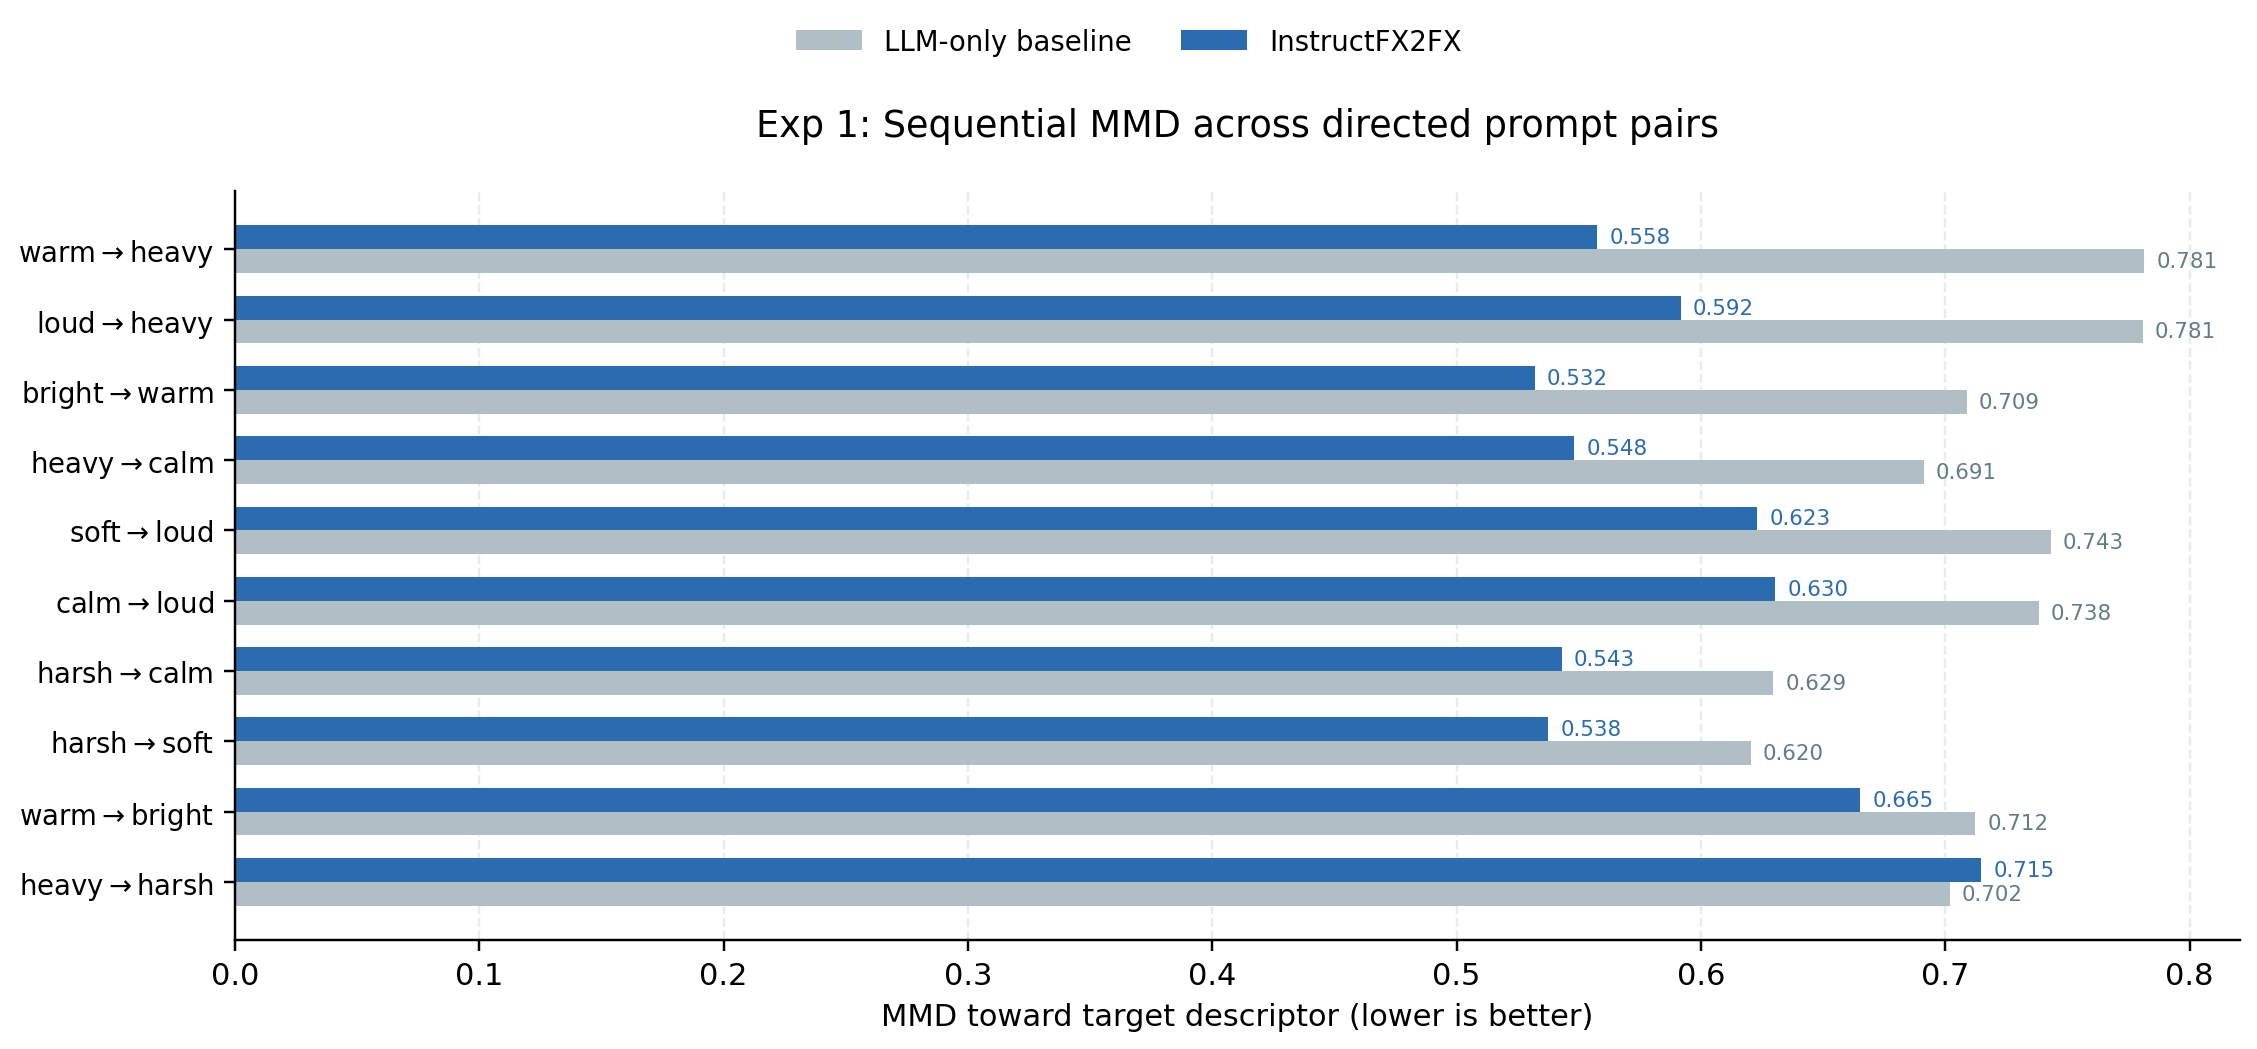
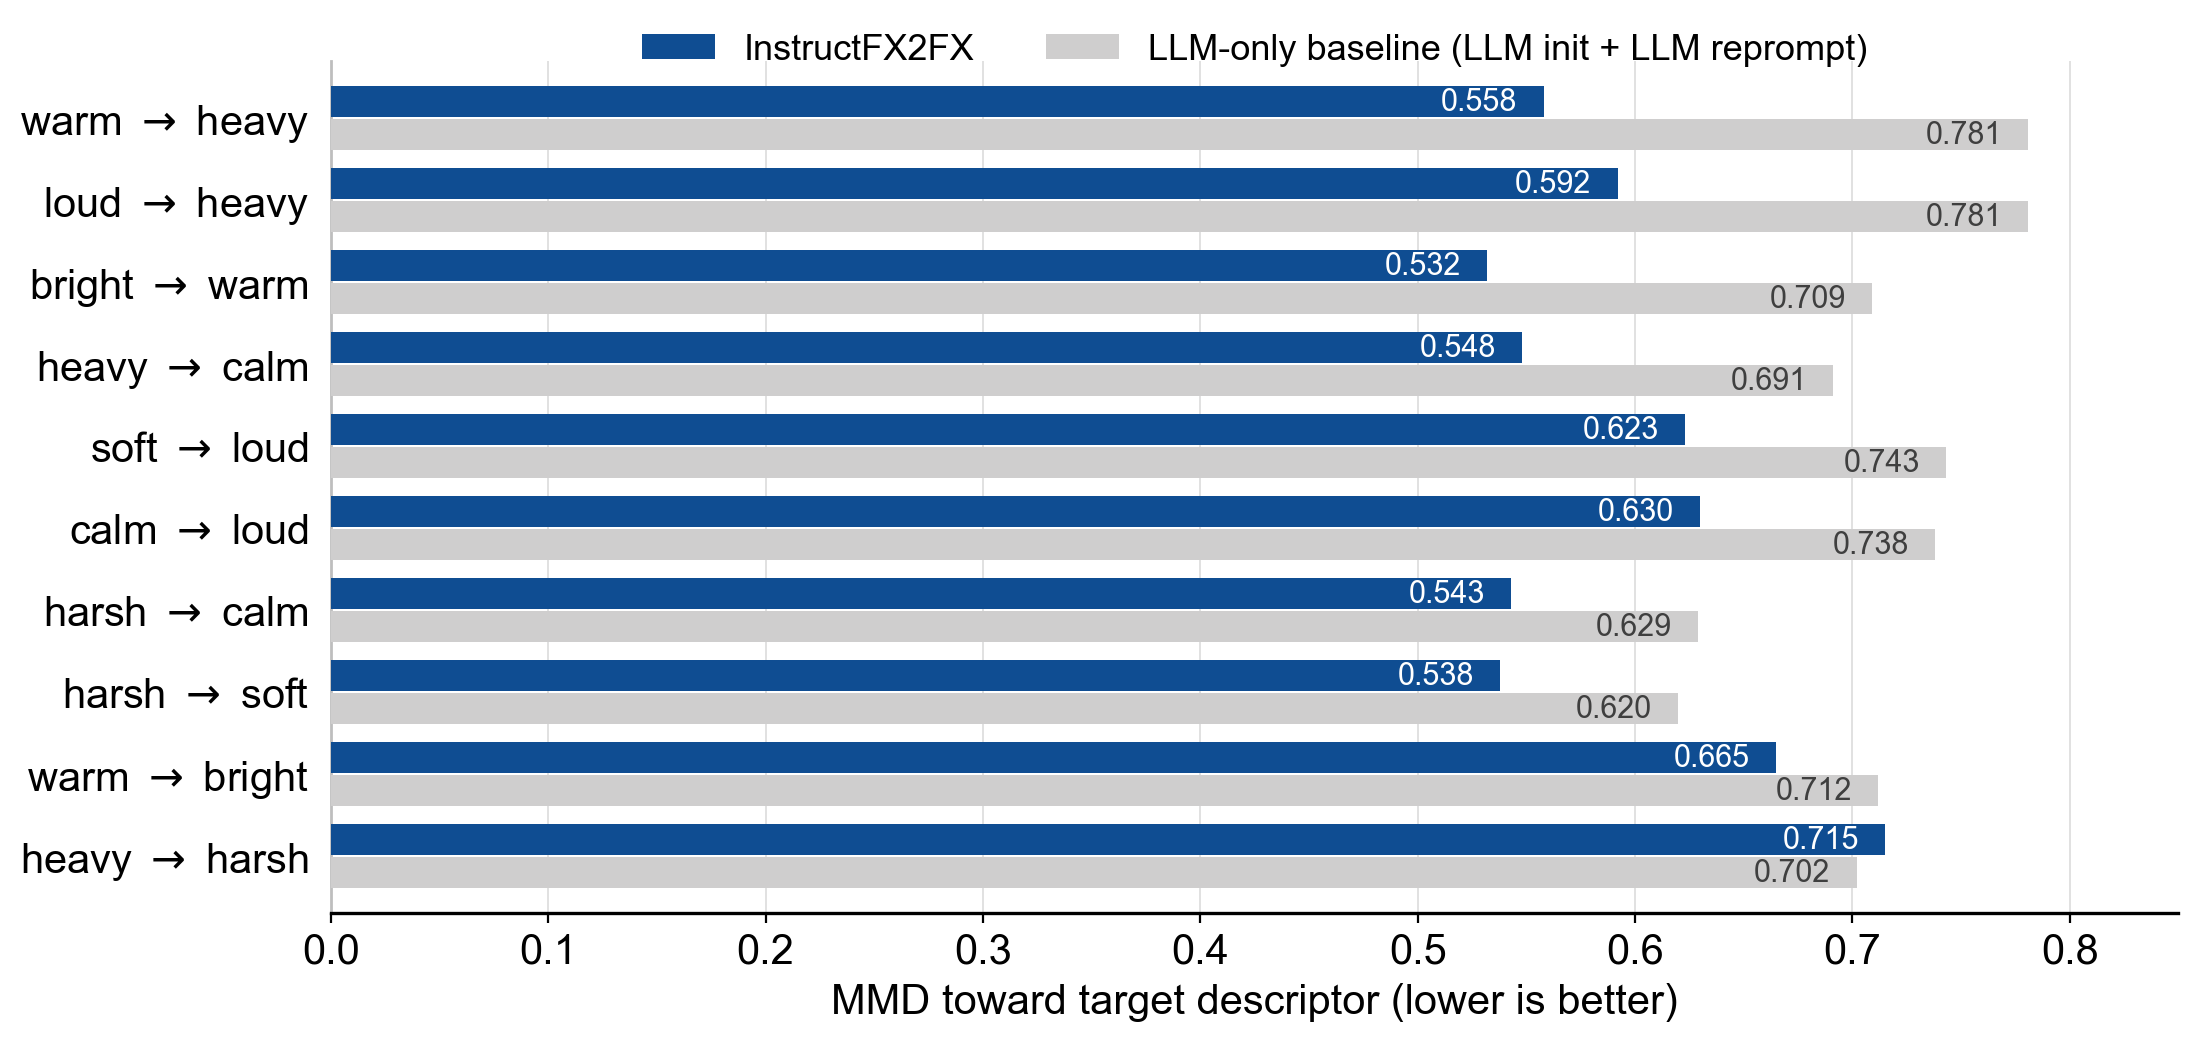
feat: demo website fig for camera-ready version

diff --git a/presentation/demo/index.html b/presentation/demo/index.html
@@ -74,27 +74,157 @@
   <section id="architecture">
     <div class="shead"><span class="snum">[02]</span><span class="stitle">Architecture · Three-Layer Harness</span></div>
     <div class="sbody">
-      <div class="diagram">
-        <div class="dg-state">
-          <span class="k">SESSION STATE</span><span class="v">P · history</span><span class="p">persistent</span>
-        </div>
-        <div class="dg-io"><span>read ▾</span><span>▴ write</span></div>
-        <div class="dg-pipe">
-          <div class="node"><span class="n-k">INPUT</span><small>audio · text</small></div>
-          <span class="conn">→</span>
-          <div class="node"><span class="n-k">L1 · <em>SELECT</em></span><small>LLM picks &amp; orders FX</small></div>
-          <span class="conn">→</span>
-          <div class="node"><span class="n-k">L2 · <em>ROUTE</em></span><small>parse the update</small></div>
-          <span class="conn">→</span>
-          <div class="node"><span class="n-k">L3 · <em>REFINE</em></span><small>optimize in CLAP space</small></div>
-          <span class="conn">→</span>
-          <div class="node"><span class="n-k">OUTPUT</span><small>rendered audio</small></div>
-        </div>
-        <div class="dg-down">▾ L3 splits by effect type ▾</div>
-        <div class="dg-sub">
-          <div class="sub"><b>3a</b><span class="s-k">GRADIENT DESCENT</span><div class="s-v">differentiable · EQ, reverb</div></div>
-          <div class="sub"><b>3b</b><span class="s-k">BAYESIAN OPT</span><div class="s-v">comp · dist · delay · pitch · crush</div></div>
-        </div>
+      <div class="fig-stack">
+        <figure>
+          <p class="fignum"><b>FIG. 01(a)</b> · HARNESS OVERVIEW</p>
+          <svg xmlns="http://www.w3.org/2000/svg" width="1060" height="196" viewBox="0 0 1060 196">
+            <defs>
+              <marker id="ah" viewBox="0 0 10 10" refX="8.5" refY="5" markerWidth="6.2" markerHeight="6.2"
+                      orient="auto-start-reverse">
+                <path d="M1,1 L9,5 L1,9" fill="none" stroke="var(--ink)" stroke-width="1.5"
+                      stroke-linejoin="round" stroke-linecap="round"/>
+              </marker>
+            </defs>
+            <rect width="1060" height="196" fill="var(--paper)"/>
+            <text x="12" y="26" font-size="19" font-weight="700" fill="var(--ink)">(a)</text>
+
+            <rect x="94" y="40" width="852" height="30" rx="1.5" fill="none" stroke="var(--line-2)"
+                  stroke-width="1" stroke-dasharray="4 3"/>
+            <text x="520" y="60" text-anchor="middle" font-size="13.5"><tspan font-weight="700" font-style="italic" fill="var(--blue)">Session state</tspan><tspan fill="var(--muted)">&#8195;history (prompt, FX chain, params) | current params</tspan></text>
+            <line x1="193" y1="71" x2="193" y2="90" stroke="var(--ink)" stroke-width="1.2" marker-end="url(#ah)"/>
+            <text x="203" y="85" font-size="11" font-style="italic" fill="var(--faint)">read history</text>
+            <line x1="374" y1="71" x2="374" y2="90" stroke="var(--ink)" stroke-width="1.2" marker-end="url(#ah)"/>
+            <text x="384" y="85" font-size="11" font-style="italic" fill="var(--faint)">read params</text>
+            <line x1="928" y1="121" x2="928" y2="71" stroke="var(--ink)" stroke-width="1.2" marker-end="url(#ah)"/>
+            <text x="918" y="85" text-anchor="end" font-size="11" font-style="italic" fill="var(--faint)">update state</text>
+
+            <g>
+              <line x1="94"  y1="121" x2="116" y2="121" stroke="var(--ink)" stroke-width="1.1" marker-end="url(#ah)"/>
+              <line x1="268" y1="121" x2="300" y2="121" stroke="var(--ink)" stroke-width="1.1" marker-end="url(#ah)"/>
+              <line x1="452" y1="121" x2="484" y2="121" stroke="var(--ink)" stroke-width="1.1" marker-end="url(#ah)"/>
+              <line x1="664" y1="121" x2="696" y2="121" stroke="var(--ink)" stroke-width="1.1" marker-end="url(#ah)"/>
+              <line x1="910" y1="121" x2="946" y2="121" stroke="var(--ink)" stroke-width="1.1" marker-end="url(#ah)"/>
+            </g>
+
+            <text x="56" y="117" text-anchor="middle" font-size="14.5" font-weight="700" fill="var(--ink)">Input</text>
+            <text x="56" y="134" text-anchor="middle" font-size="12" font-style="italic" fill="var(--muted)">audio, text</text>
+
+            <rect x="118" y="93" width="150" height="56" rx="1.5" fill="var(--paper)" stroke="var(--ink)" stroke-width="1.3"/>
+            <text x="193" y="117" text-anchor="middle" font-size="14" font-weight="700" fill="var(--ink)">LLM Planner</text>
+            <text x="193" y="135" text-anchor="middle" font-size="9" font-style="italic" letter-spacing="-0.03em" fill="var(--muted)">FX selection via tool calls</text>
+
+            <rect x="300" y="93" width="152" height="56" rx="1.5" fill="var(--paper)" stroke="var(--ink)" stroke-width="1.3"/>
+            <text x="376" y="117" text-anchor="middle" font-size="14" font-weight="700" fill="var(--ink)">Routing Module</text>
+            <text x="376" y="135" text-anchor="middle" font-size="9.5" font-style="italic" fill="var(--muted)">init | reuse | mixed</text>
+
+            <rect x="484" y="93" width="180" height="56" rx="1.5" fill="var(--paper)" stroke="var(--ink)" stroke-width="1.3"/>
+            <text x="574" y="117" text-anchor="middle" font-size="14" font-weight="700" fill="var(--ink)">Gradient Descent</text>
+            <text x="574" y="135" text-anchor="middle" font-size="9.5" font-style="italic" fill="var(--muted)">differentiable FX</text>
+
+            <rect x="696" y="93" width="214" height="56" rx="1.5" fill="var(--paper)" stroke="var(--ink)" stroke-width="1.3"/>
+            <text x="803" y="117" text-anchor="middle" font-size="14" font-weight="700" fill="var(--ink)">Bayesian Optimization</text>
+            <text x="803" y="135" text-anchor="middle" font-size="9.5" font-style="italic" fill="var(--muted)">non-differentiable FX</text>
+
+            <text x="992" y="117" text-anchor="middle" font-size="14.5" font-weight="700" fill="var(--ink)">Output</text>
+            <text x="992" y="134" text-anchor="middle" font-size="12" font-style="italic" fill="var(--muted)">params, audio</text>
+
+            <path d="M484,157 L484,163 L910,163 L910,157" fill="none" stroke="var(--line-2)" stroke-width="1"/>
+            <text x="697" y="179" text-anchor="middle" font-size="12.5" font-style="italic" fill="var(--muted)">CLAP-guided optimization</text>
+          </svg>
+          <figcaption><b>Figure 1:</b> The InstructFX2FX harness. An LLM planner and routing module drive a CLAP-guided optimization backend over a persistent session state, which makes the system iterative.</figcaption>
+        </figure>
+        <figure>
+          <p class="fignum"><b>FIG. 02</b> · ROUTING MODULE EXPLAIN</p>
+          <svg xmlns="http://www.w3.org/2000/svg" width="1080" height="244" viewBox="0 0 1080 244">
+            <defs>
+              <marker id="ahM" viewBox="0 0 10 10" refX="8.5" refY="5" markerWidth="6.2" markerHeight="6.2"
+                      orient="auto-start-reverse">
+                <path d="M1,1 L9,5 L1,9" fill="none" stroke="var(--blue)" stroke-width="1.5"
+                      stroke-linejoin="round" stroke-linecap="round"/>
+              </marker>
+              <marker id="ahA" viewBox="0 0 10 10" refX="8.5" refY="5" markerWidth="5.4" markerHeight="5.4"
+                      orient="auto-start-reverse">
+                <path d="M1,1 L9,5 L1,9" fill="none" stroke="var(--muted)" stroke-width="1.4"
+                      stroke-linejoin="round" stroke-linecap="round"/>
+              </marker>
+            </defs>
+            <rect width="1080" height="244" fill="var(--paper)"/>
+            <text x="12" y="25" font-size="16" font-weight="800" fill="var(--blue)" letter-spacing="0.02em">[B]</text>
+
+            <text x="125" y="26"  text-anchor="end" font-size="10.5" fill="var(--faint)">turns</text>
+            <text x="125" y="56"  text-anchor="end" font-size="10.5" fill="var(--muted)">instruction</text>
+            <text x="125" y="103" text-anchor="end" font-size="10.5" fill="var(--muted)">llm planner</text>
+            <text x="125" y="167" text-anchor="end" font-size="10.5" fill="var(--muted)">routing module</text>
+            <text x="125" y="214" text-anchor="end" font-size="10.5" fill="var(--muted)">session chain</text>
+
+            <line x1="145" y1="22" x2="870" y2="22" stroke="var(--line-2)" stroke-width="1.3" marker-end="url(#ahA)"/>
+            <circle cx="252" cy="22" r="3.2" fill="var(--blue)"/>
+            <circle cx="500" cy="22" r="3.2" fill="var(--blue)"/>
+            <circle cx="748" cy="22" r="3.2" fill="var(--blue)"/>
+
+            <text x="252" y="52" text-anchor="middle" font-size="12"><tspan fill="var(--blue)" font-weight="700">&#8250; </tspan><tspan fill="var(--ink-2)">&#8220;make it brighter&#8221;</tspan></text>
+            <rect x="135" y="68" width="234" height="62" fill="none" stroke="var(--blue)" stroke-width="1.3" stroke-dasharray="5 4"/>
+            <text x="173.25" y="92" text-anchor="middle" font-size="11" font-weight="700" fill="var(--blue)">eq</text>
+            <text x="225.75" y="92" text-anchor="middle" font-size="10" fill="var(--faint)">comp</text>
+            <text x="278.25" y="92" text-anchor="middle" font-size="10" fill="var(--faint)">rev</text>
+            <text x="330.75" y="92" text-anchor="middle" font-size="10" fill="var(--faint)">dist</text>
+            <text x="182" y="116" text-anchor="middle" font-size="10" fill="var(--faint)">delay</text>
+            <text x="252" y="116" text-anchor="middle" font-size="10" fill="var(--faint)">pitchshift</text>
+            <text x="322" y="116" text-anchor="middle" font-size="10" fill="var(--faint)">bitcrush</text>
+            <line x1="252" y1="132" x2="252" y2="144" stroke="var(--blue)" stroke-width="1.3" marker-end="url(#ahM)"/>
+            <rect x="177" y="146" width="150" height="36" fill="var(--paper)" stroke="var(--line)" stroke-width="1.5"/>
+            <rect x="188" y="161" width="6" height="6" fill="var(--blue)"/>
+            <text x="252" y="169" text-anchor="middle" font-size="11" font-weight="700" fill="var(--ink)" letter-spacing="0.01em">I &#183; INIT-ONLY</text>
+            <line x1="252" y1="184" x2="252" y2="196" stroke="var(--blue)" stroke-width="1.3" marker-end="url(#ahM)"/>
+            <rect x="225" y="198" width="54" height="26" fill="#ffffff" stroke="var(--blue)" stroke-width="1.4"/>
+            <text x="252" y="215" text-anchor="middle" font-size="12.5" fill="var(--ink)">eq</text>
+
+            <text x="500" y="52" text-anchor="middle" font-size="12"><tspan fill="var(--blue)" font-weight="700">&#8250; </tspan><tspan fill="var(--ink-2)">&#8220;make it sound like a church&#8221;</tspan></text>
+            <rect x="383" y="68" width="234" height="62" fill="none" stroke="var(--blue)" stroke-width="1.3" stroke-dasharray="5 4"/>
+            <text x="430" y="92" text-anchor="middle" font-size="10" fill="var(--faint)">comp</text>
+            <text x="500" y="92" text-anchor="middle" font-size="11" font-weight="700" fill="var(--blue)">rev</text>
+            <text x="570" y="92" text-anchor="middle" font-size="10" fill="var(--faint)">dist</text>
+            <text x="430" y="116" text-anchor="middle" font-size="10" fill="var(--faint)">delay</text>
+            <text x="500" y="116" text-anchor="middle" font-size="10" fill="var(--faint)">pitchshift</text>
+            <text x="570" y="116" text-anchor="middle" font-size="10" fill="var(--faint)">bitcrush</text>
+            <line x1="500" y1="132" x2="500" y2="144" stroke="var(--blue)" stroke-width="1.3" marker-end="url(#ahM)"/>
+            <rect x="425" y="146" width="150" height="36" fill="var(--paper)" stroke="var(--line)" stroke-width="1.5"/>
+            <rect x="436" y="161" width="6" height="6" fill="var(--ink)"/>
+            <text x="500" y="169" text-anchor="middle" font-size="11" font-weight="700" fill="var(--ink)" letter-spacing="0.01em">III &#183; MIXED</text>
+            <line x1="500" y1="184" x2="500" y2="196" stroke="var(--blue)" stroke-width="1.3" marker-end="url(#ahM)"/>
+            <rect x="435" y="198" width="54" height="26" fill="#ffffff" stroke="var(--line-2)" stroke-width="1.3"/>
+            <text x="462" y="215" text-anchor="middle" font-size="12.5" fill="var(--ink-2)">eq</text>
+            <line x1="491" y1="211" x2="499" y2="211" stroke="var(--muted)" stroke-width="1.2" marker-end="url(#ahA)"/>
+            <rect x="501" y="198" width="54" height="26" fill="#ffffff" stroke="var(--blue)" stroke-width="1.4"/>
+            <text x="528" y="215" text-anchor="middle" font-size="12.5" fill="var(--ink)">rev</text>
+
+            <text x="748" y="52" text-anchor="middle" font-size="12"><tspan fill="var(--blue)" font-weight="700">&#8250; </tspan><tspan fill="var(--ink-2)">&#8220;too harsh, soften it&#8221;</tspan></text>
+            <rect x="631" y="68" width="234" height="62" fill="none" stroke="var(--blue)" stroke-width="1.3" stroke-dasharray="5 4"/>
+            <text x="678" y="92" text-anchor="middle" font-size="10" fill="var(--faint)">comp</text>
+            <text x="748" y="92" text-anchor="middle" font-size="10" fill="var(--faint)">dist</text>
+            <text x="818" y="92" text-anchor="middle" font-size="10" fill="var(--faint)">delay</text>
+            <text x="695.5" y="116" text-anchor="middle" font-size="10" fill="var(--faint)">pitchshift</text>
+            <text x="800.5" y="116" text-anchor="middle" font-size="10" fill="var(--faint)">bitcrush</text>
+            <line x1="748" y1="132" x2="748" y2="144" stroke="var(--blue)" stroke-width="1.3" marker-end="url(#ahM)"/>
+            <rect x="673" y="146" width="150" height="36" fill="var(--paper)" stroke="var(--line)" stroke-width="1.5"/>
+            <rect x="684" y="161" width="6" height="6" fill="var(--paper)" stroke="var(--blue)" stroke-width="1.2"/>
+            <text x="748" y="169" text-anchor="middle" font-size="10.5" font-weight="700" fill="var(--ink)" letter-spacing="0.01em">II &#183; REUSE-ONLY</text>
+            <line x1="748" y1="184" x2="748" y2="196" stroke="var(--blue)" stroke-width="1.3" marker-end="url(#ahM)"/>
+            <rect x="683" y="198" width="54" height="26" fill="#ffffff" stroke="var(--line-2)" stroke-width="1.3"/>
+            <text x="710" y="215" text-anchor="middle" font-size="12.5" fill="var(--ink-2)">eq</text>
+            <line x1="739" y1="211" x2="747" y2="211" stroke="var(--muted)" stroke-width="1.2" marker-end="url(#ahA)"/>
+            <rect x="749" y="198" width="54" height="26" fill="#ffffff" stroke="var(--line-2)" stroke-width="1.3"/>
+            <text x="776" y="215" text-anchor="middle" font-size="12.5" fill="var(--ink-2)">rev</text>
+
+            <rect x="905" y="124" width="14" height="11" fill="none" stroke="var(--blue)" stroke-width="1.1" stroke-dasharray="3 2"/>
+            <text x="924" y="133" font-size="10" fill="var(--muted)">available fx tools pool</text>
+            <rect x="905" y="141" width="14" height="11" fill="none" stroke="var(--blue)" stroke-width="1.1"/>
+            <text x="924" y="150" font-size="10" fill="var(--muted)">newly init</text>
+            <rect x="905" y="158" width="14" height="11" fill="none" stroke="var(--line-2)" stroke-width="1.1"/>
+            <text x="924" y="167" font-size="10" fill="var(--muted)">reused from prior state</text>
+          </svg>
+          <figcaption><b>Figure 2:</b> The three routing modes over one example three-turn session.</figcaption>
+        </figure>
       </div>
       <p class="lead">$ routing — every instruction takes one of three modes</p>
       <ol class="modes">
@@ -126,17 +256,11 @@
   <section id="results">
     <div class="shead"><span class="snum">[04]</span><span class="stitle">Evaluation · By the Numbers</span></div>
     <div class="sbody">
-      <div class="stats">
-        <div class="stat"><span class="sk">// TARGET MMD</span><span class="sv">0.45<span class="arr">→</span>0.34</span></div>
-        <div class="stat"><span class="sk">// REDUCTION</span><span class="sv">24<span class="u">%</span></span></div>
-        <div class="stat"><span class="sk">// PAIRS WON</span><span class="sv">9<span class="u">/10</span></span></div>
-        <div class="stat"><span class="sk">// GD ITERS</span><span class="sv">120</span></div>
-      </div>
       <div class="fig-stack">
         <figure>
           <p class="fignum"><b>EXP.01</b> · SEQUENTIAL MMD</p>
           <img src="assets/fig_mmd.png" alt="Sequential MMD across directed prompt pairs: InstructFX2FX beats the LLM-only baseline on 9 of 10" />
-          <figcaption>Lower target-directed MMD on <b>9 of 10</b> directed descriptor pairs versus an LLM-only baseline. CLAP-guided refinement cuts MMD from <b>0.45 to 0.34</b>.</figcaption>
+          <figcaption>Lower target-directed MMD on <b>9 of 10</b> directed descriptor pairs versus an LLM-only baseline (directional objective, <i>L</i><sub>dir</sub>).</figcaption>
         </figure>
         <figure>
           <p class="fignum"><b>EXP.02</b> · MMD CONVERGENCE TRAJECTORY</p>
@@ -157,7 +281,7 @@
         <figure>
           <p class="fignum"><b>EXP.03</b> · LLM INITIALIZATION ABLATION</p>
           <img src="assets/fig_trajectory.png" alt="CLAP similarity rising and MMD falling across optimization iterations" />
-          <figcaption>CLAP similarity rises and MMD falls across iterations, the measurement behind the gradient-descent tracks above.</figcaption>
+          <figcaption>From the LLM initialization, CLAP refinement (guided objective, <i>L</i><sub>guided</sub>) lowers MMD in a DSP-feature space and an Fx-Encoder++ embedding across iterations; curves show piano, violin, and their mean.</figcaption>
         </figure>
       </div>
     </div>

diff --git a/presentation/demo/styles.css b/presentation/demo/styles.css
@@ -118,10 +118,12 @@ ol.modes b { color: var(--ink); font-weight: 700; }
 
 /* ---- figures ---- */
 .fig-stack { display: grid; gap: 26px; }
+.fig-stack + .lead { margin-top: 26px; }
 figure { margin: 0; }
 .fignum { color: var(--faint); font-size: 0.68rem; letter-spacing: 0.06em; text-transform: uppercase; margin: 0 0 9px; }
 .fignum b { color: var(--blue); font-weight: 600; }
 figure img { width: 100%; border: 1.5px solid var(--line); display: block; background: var(--paper); }
+figure svg { width: 100%; height: auto; border: 1.5px solid var(--line); display: block; background: var(--paper); font-family: var(--mono); }
 figcaption { font-size: 0.78rem; color: var(--muted); margin-top: 10px; max-width: 100%; line-height: 1.55; }
 figcaption::before { content: "▴ "; color: var(--blue); font-weight: 600; }
 figcaption b { color: var(--ink-2); font-weight: 600; }

diff --git a/src/llms/llmclient.py b/src/llms/llmclient.py
@@ -34,6 +34,7 @@ class LLMClient:
         for attempt, max_tokens in enumerate(self.parameter_max_tokens, start=1):
             response = self.llm.chat.completions.create(
                 model=model or self.model,
+                temperature=1.0,  # stochastic init; pinned for reproducibility (was API default)
                 max_tokens=max_tokens,
                 messages=[
                     {"role": "system", "content": prompt.sys_prompt},
